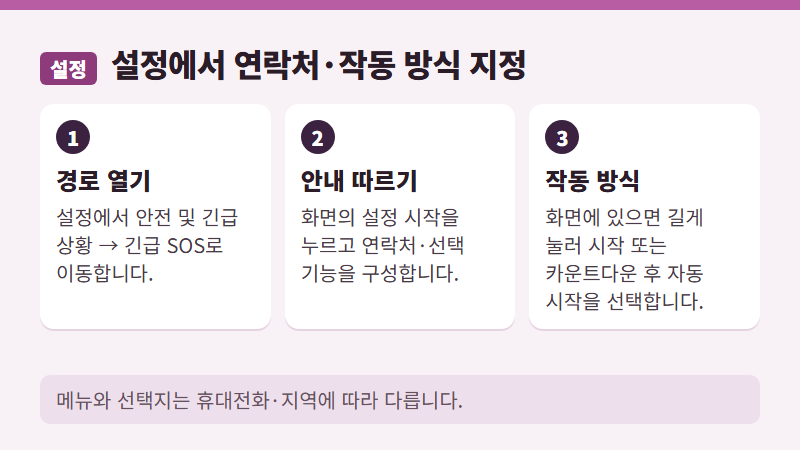
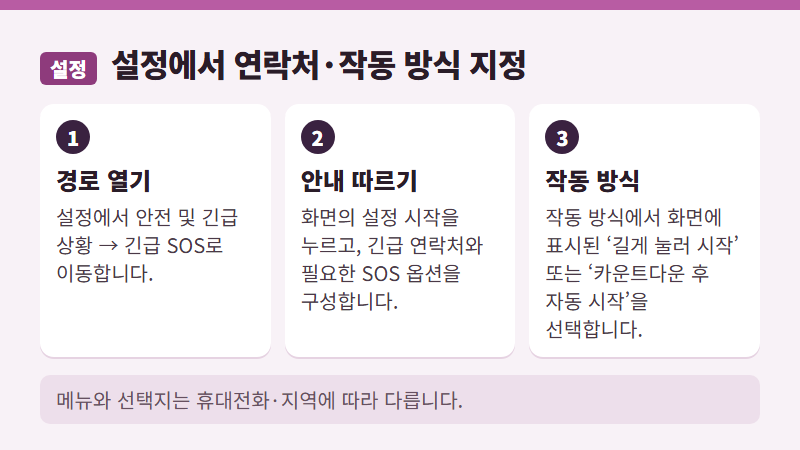
review: rebuild tabs

diff --git a/index.html b/index.html
@@ -67,7 +67,7 @@
 </section>
 <section class="tab" id="tab-b4">
 <div class="top"><span class="badge">블4 · 가전·IT 사용법</span><span class="ttl">Android 긴급 SOS 설정 방법: 비상 연락처·위치 공유·작동 방식 확인</span><button type="button" class="copy" data-tab="b4">HTML 복사</button></div>
-<div class="thumb"><img src="https://kmt9934.github.io/blog-review/b4/thumbnail.png?v=2026-10-04T15:58" alt="Android 긴급 SOS 설정 방법: 비상 연락처·위치 공유·작동 방식 확인 썸네일"></div>
+<div class="thumb"><img src="https://kmt9934.github.io/blog-review/b4/thumbnail.png?v=2026-10-04T16:04" alt="Android 긴급 SOS 설정 방법: 비상 연락처·위치 공유·작동 방식 확인 썸네일"></div>
 <div class="toolbar"><button type="button" data-cmd="bold"><b>B</b></button><button type="button" data-cmd="italic"><i>I</i></button><button type="button" data-cmd="formatBlock" data-val="h2">제목</button><button type="button" data-cmd="formatBlock" data-val="h3">소제목</button><button type="button" data-cmd="formatBlock" data-val="p">본문</button><button type="button" data-cmd="insertUnorderedList">• 목록</button></div>
 <div class="editor" id="ed-b4" contenteditable="true"></div>
 <div class="hint">이 탭의 글만 수정·복사됩니다. 「HTML 복사」 → 해당 블로그(Tistory/Blogger) 편집기에 붙여넣기. 자동 발행은 하지 않습니다.</div>
